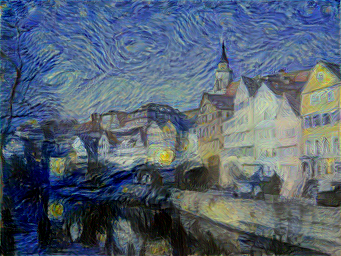
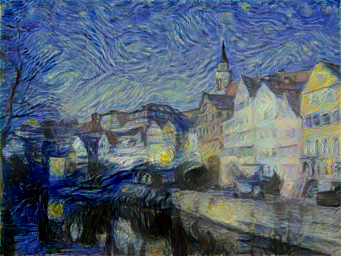
Major refactor: do feature extraction manually for more flexibility + make code run much faster + add average pooling option

diff --git a/artistic_neural_net.py b/artistic_neural_net.py
@@ -1,14 +1,10 @@
 # TODO: Make a video rendering functionality after cleaning up code
 # TODO: Perhaps allow configuration through a dictionary passed to the main function
-# TODO: Replace max pooling with average pooling with perhaps
-#       trying to have more control over feature extraction
-#       (writing out the entire VGG19 network on a separate file)
 # TODO: Implement total viariation loss to improve smoothness
 
 from utils import *
+from models import VGG19
 import torch.optim as optim
-from torchvision.models import vgg19, VGG19_Weights
-from torchvision.models.feature_extraction import create_feature_extractor
 
 
 def artistic_neural_net():
@@ -18,30 +14,23 @@ def artistic_neural_net():
 
     print(f"Using {device} device")
 
-    # # loading pretrained model
-    model = vgg19(weights=VGG19_Weights.DEFAULT).eval().to(device)
-
-    model.requires_grad = False
-
-    # # setting up feature extractors
-    style_feature_extractor = create_feature_extractor(
-        model, return_nodes=STYLE_NODES_RELU).to(device)
-
-    content_feature_extractor = create_feature_extractor(
-        model, return_nodes=CONTENT_NODES).to(device)
-
-    get_features = get_content_and_style(
-        content_feature_extractor, style_feature_extractor)
     # loading test images
     content_img = prepare_image("images/houses.jpg", 256).to(device)
     style_img = prepare_image("images/night.jpg", 256).to(device)
 
+    # the forward call to this model returns the losses with respect these images
+    model = VGG19(content_img, style_img, device=device)
+
     # initializing the input image to the content image
     # randn works better than just rand for when starting from random noise?
-    gen_image = content_img.clone()
-
-    content_features_target, gram_matrices_target = get_features(
-        content_img, style_img, detach=True)
+    init_image_method = "content"
+    if init_image_method == "content":
+        gen_image = content_img.clone()
+    elif init_image_method == "style":
+        gen_image = style_img.clone()
+    else:  # defaults to a white noise
+        gen_image = transforms.Resize(content_img.shape[2:])(
+            prepare_image("images/white-noise.jpg").to(device))
 
     # setting up for optimization
     content_weight = 1
@@ -51,31 +40,22 @@ def artistic_neural_net():
 
     step_cnt = [0]
     # generating the target image
-    while step_cnt[0] <= 201:
+    while step_cnt[0] <= 250:
 
         def closure():
             optimizer.zero_grad()
-            gen_features_content, gram_matrices_gen = get_features(
-                gen_image, gen_image)
 
-            # getting the total loss
-            l_style = 0
-            l_content = 0
-            # for now, I will let all considered layers contribute equally
-            for layer in gram_matrices_target:
-                l_style += nn.functional.mse_loss(gram_matrices_gen[layer],
-                                                  gram_matrices_target[layer], reduction="mean")
+            content_loss, style_loss = model(gen_image)
 
-            for layer in gen_features_content:
-                l_content += nn.functional.mse_loss(
-                    gen_features_content[layer], content_features_target[layer], reduction="mean")
+            content_loss *= content_weight
+            style_loss *= style_weight
 
             with torch.no_grad():
                 if step_cnt[0] % 50 == 0:
                     print(
-                        f"step {step_cnt[0]} \tcontent loss: {content_weight * l_content} \tstyle loss: {style_weight * l_style}")
+                        f"step {step_cnt[0]} \tcontent loss: {content_loss} \tstyle loss: {style_loss}")
 
-            loss = style_weight * l_style + content_weight * l_content
+            loss = content_loss + style_loss
             loss.backward()
 
             step_cnt[0] += 1

diff --git a/models.py b/models.py
@@ -1,0 +1,98 @@
+# Here is where I will do feature extraction.
+# I have decided to do the feature extraction more manually in order to achieve
+# more flexibility such as switching max pooling with avg pooling
+
+from torchvision.models import vgg19, VGG19_Weights
+import torch.nn as nn
+from utils import StyleLoss, ContentLoss
+
+
+class VGG19(nn.Module):
+
+    style_layers = ["relu1_1", "relu2_1",
+                    "relu3_1", "relu4_1", "relu5_1"]
+
+    content_layers = ["relu4_2"]
+
+    positions = [1, 6, 11, 20, 22, 29]
+
+    # after trying average pooling, the results seem buggy so I've decided
+    # to default it to max pooling until I figure out what's going on
+    pooling = "max"
+
+    def __init__(self, content_img, style_img, device="cpu"):
+        super(VGG19, self).__init__()
+        features = vgg19(
+            weights=VGG19_Weights.DEFAULT).features.eval().to(device)
+        features.requires_grad_(False)
+
+        self.style_feature1 = nn.Sequential()
+        self.style_feature2 = nn.Sequential()
+        self.style_feature3 = nn.Sequential()
+        self.style_feature4 = nn.Sequential()
+        self.content_feature = nn.Sequential()
+        self.style_feature5 = nn.Sequential()
+
+        layers = [self.style_feature1, self.style_feature2, self.style_feature3,
+                  self.style_feature4, self.content_feature, self.style_feature5]
+
+        self.content_losses = []
+        self.style_losses = []
+
+        pool_cnt, relu_count, conv_count = 1, 1, 1
+        prev_pos = 0
+        for layer, pos in zip(layers, self.positions):
+            for j in range(prev_pos, pos+1):
+                x = features[j]
+                if isinstance(x, nn.Conv2d):
+                    name = f"conv{pool_cnt}_{conv_count}"
+                    layer.add_module(name, x)
+                    conv_count += 1
+                elif isinstance(x, nn.ReLU):
+                    name = f"relu{pool_cnt}_{relu_count}"
+                    layer.add_module(name, x)
+                    relu_count += 1
+                else:
+                    name = f"pool{pool_cnt}"
+                    if self.pooling == "avg":
+                        layer.add_module(name, nn.AvgPool2d(2, 2))
+                    else:
+                        layer.add_module(name, x)
+                    relu_count = 1
+                    conv_count = 1
+                    pool_cnt += 1
+
+            content_img = layer(content_img)
+            style_img = layer(style_img)
+
+            if name in self.style_layers:
+                loss_module = StyleLoss(style_img)
+                layer.add_module("style_loss", loss_module)
+                self.style_losses.append(loss_module)
+            elif name in self.content_layers:
+                loss_module = ContentLoss(content_img)
+                layer.add_module("content_loss", loss_module)
+                self.content_losses.append(loss_module)
+            else:
+                raise Exception(f"layer name [{name}] not recognized")
+
+            prev_pos = pos+1
+
+    def forward(self, input):
+        content = 0
+        style = 0
+
+        x = self.style_feature1(input)
+        x = self.style_feature2(x)
+        x = self.style_feature3(x)
+        x = self.style_feature4(x)
+        x = self.content_feature(x)
+        x = self.style_feature5(x)
+
+        # calculating the losses
+        for style_loss in self.style_losses:
+            style += style_loss.loss
+        for content_loss in self.content_losses:
+            content += content_loss.loss
+
+        return content, style

diff --git a/utils.py b/utils.py
@@ -11,13 +11,27 @@ import matplotlib.pyplot as plt
 VGG_MEAN = torch.tensor([0.485, 0.456, 0.406])
 # choose not to normalize by scaling by making std a tensor of ones
 VGG_STD = torch.tensor([1, 1, 1])
-# the following list is the style conv layers used in paper
-STYLE_NODES_CONV = ["features.0", "features.5",
-                    "features.10", "features.19", "features.28"]
-# I found that relu layers generally converges significatly faster
-STYLE_NODES_RELU = ["features.1", "features.6",
-                    "features.11", "features.20", "features.29"]
-CONTENT_NODES = ["features.22"]
+
+
+class StyleLoss(nn.Module):
+    def __init__(self, target_gram):
+        super(StyleLoss, self).__init__()
+        self.target_gram = get_gram_matrix(target_gram)
+
+    def forward(self, gen_feature):
+        gram = get_gram_matrix(gen_feature)
+        self.loss = nn.functional.mse_loss(gram, self.target_gram)
+        return gen_feature
+
+
+class ContentLoss(nn.Module):
+    def __init__(self, target_feature=None):
+        super(ContentLoss, self).__init__()
+        self.target_feature = target_feature
+
+    def forward(self, gen_feature):
+        self.loss = nn.functional.mse_loss(gen_feature, self.target_feature)
+        return gen_feature
 
 
 def get_gram_matrix(featmaps):
@@ -58,7 +72,7 @@ def prepare_image(path, img_size=256):
         transforms.Resize(img_size),
         transforms.ToTensor(),
         transforms.Normalize(mean=VGG_MEAN, std=VGG_STD),
-        # somehow multipying by 255 makes the results converge faster
+        # somehow multipying by some large constant makes the results converge faster
         transforms.Lambda(lambda x: x.mul_(255.0))
     ])
 
@@ -70,7 +84,7 @@ def display_image(image):
     img = img.to("cpu")
     img = img.squeeze(0)
     # denormalizing
-    img.div_(255.0)
+    img.div_(300.0)
     img *= VGG_STD.view(3, 1, 1)
     img += VGG_MEAN.view(3, 1, 1)
     img = img.permute((1, 2, 0))
